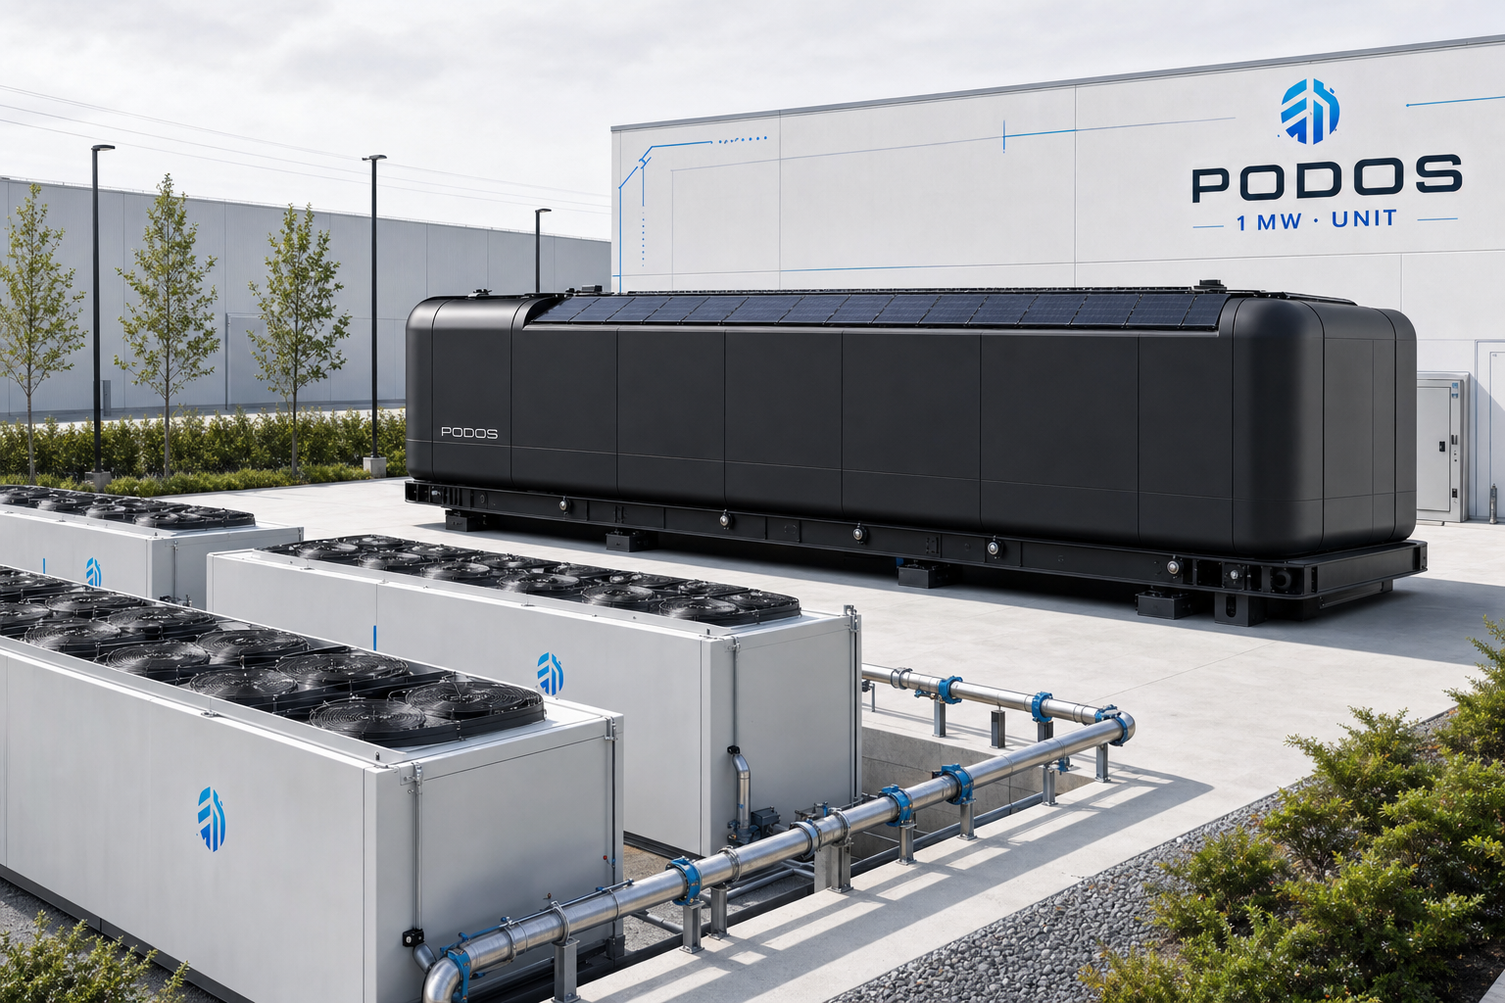
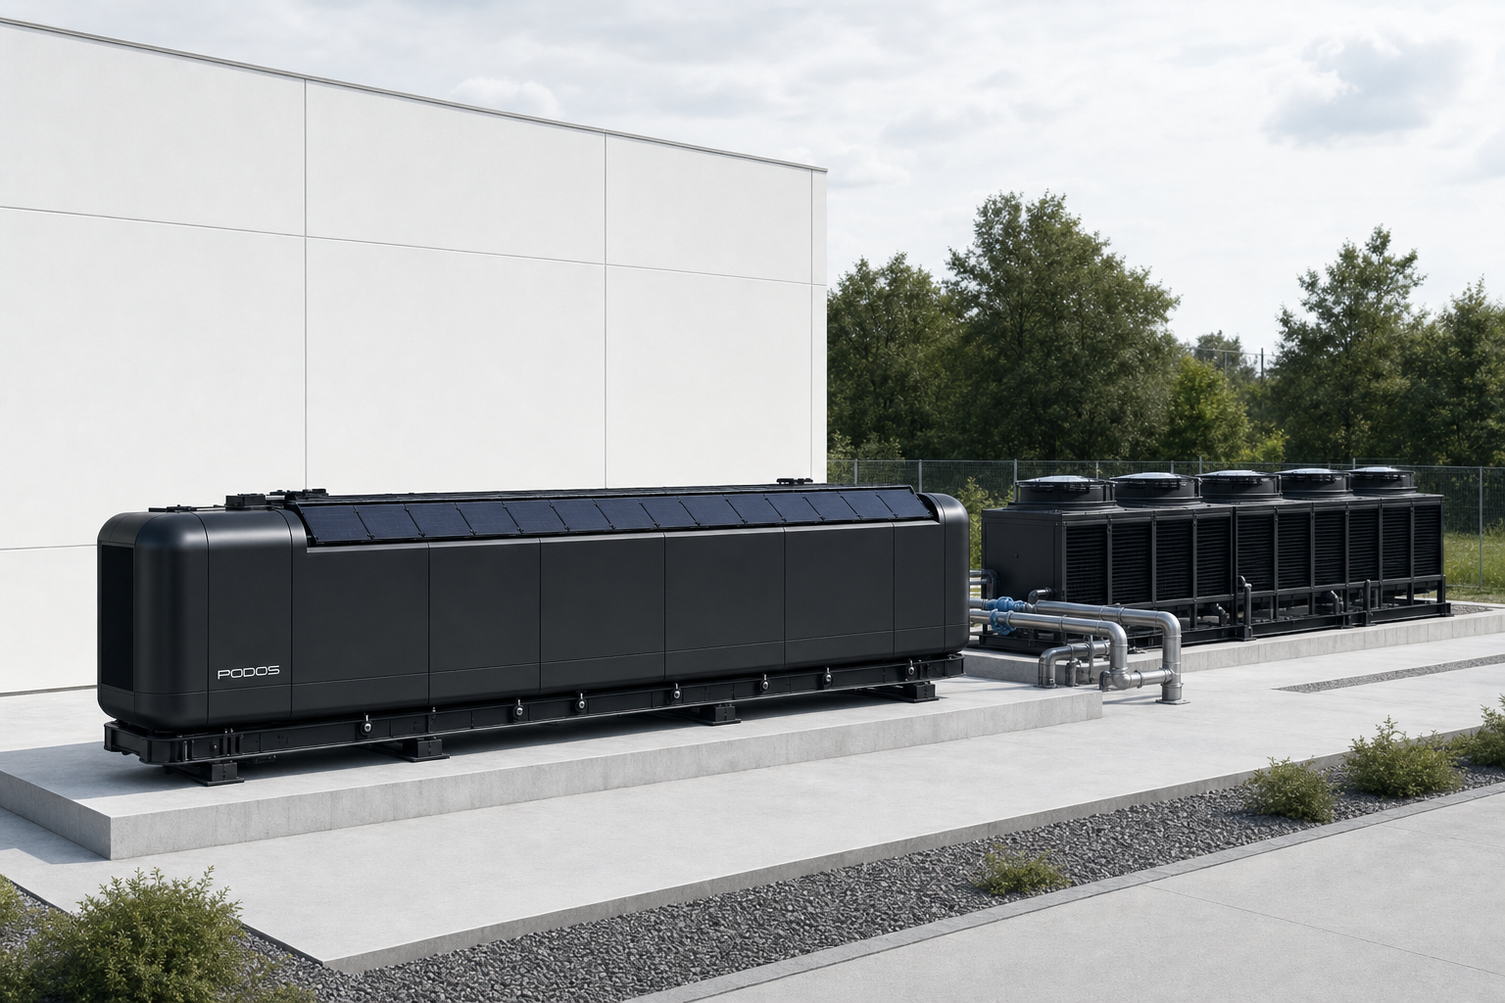
Fix baked-in claims across generated SEO images
Visual QA of all 25 images found several renders had baked company
claims into pixels ("720 sq ft", "1 MW · UNIT", "128 GPUs", "DATA KEPT
ON PREMISES", floor slogans) — which defeats claims gating, since a
number painted into a PNG cannot be qualified or retracted.

Root cause: pod.png is a full spec CARD (title, stat panel, dimension
callouts), so image-to-image editing echoed that text furniture into
scenes. Fix at the source: added public/products/pod-clean.png (product
only, no text) as the SEO reference, and hardened all 25 prompts with an
explicit NO_TEXT negative (no signage, spec panels, callouts, decals,
placards, numbers, pseudo-lettering).

Regenerated the 10 offending images against the clean reference —
verified text-free with correct pod fidelity. Fixed 2 more without
regeneration: pod-hero-studio (cropped the spec panel off the right
edge, then delogo'd a fake angular logo off the wall) and
pod-panel-detail (cropped a stray watermark strip); registry dimensions
updated to match the new crops.

diff --git a/src/data/seo-page-images.ts b/src/data/seo-page-images.ts
@@ -12,7 +12,11 @@
  */
 
 export const SEO_STYLE_DNA =
-  "Bright clean technical environment: white and cool light-gray architectural surfaces, subtle blueprint-blue and cyan accents (#2563EB to #22D3EE family), soft neutral daylight, precision industrial-catalog photography, premium light modern infrastructure-brand aesthetic. No dark voids, no cyberpunk, no neon, no warm gold or ivory tones, no fake text or logos.";
+  "Bright clean technical environment: white and cool light-gray architectural surfaces, subtle blueprint-blue and cyan accents (#2563EB to #22D3EE family), soft neutral daylight, precision industrial-catalog photography, premium light modern infrastructure-brand aesthetic. No dark voids, no cyberpunk, no neon, no warm gold or ivory tones.";
+
+/** Hard negative — company claims must live in gated HTML, never in pixels. */
+export const NO_TEXT =
+  "ABSOLUTELY NO TEXT ANYWHERE IN THE IMAGE: no signage, no wall lockups, no spec panels, no stat boards, no dimension callouts, no floor decals, no placards, no banners, no monument signs, no nameplates, no watermarks, no numbers, no units, no measurements, no slogans, no blueprint labels, no garbled pseudo-lettering. Surfaces stay clean and blank. The only permitted marking is the small PODOS wordmark already present on the unit's flank in the reference image.";
 
 export const POD_DNA =
   "The PODOS Pod: a physically believable modular AI compute unit — long horizontal industrial enclosure, premium matte-black and graphite exterior, rounded end sections, clean modular panel seams, low heavy-duty structural base, integrated solar-panel roof surface, restrained PODOS wordmark, realistic service points, serious engineered proportions, faithful to the reference image. No redesign.";
@@ -37,14 +41,14 @@ export const SEO_IMAGES: SeoImage[] = [
   {
     id: "platform-overview",
     page: "/platform",
-    prompt: `Editorial wide shot of the PODOS Pod on a clean white studio pad with a large bright architectural wall behind it, a thin luminous blue data line rising from the pod and resolving into an elegant abstract layer of translucent blue planes above (hardware-to-software metaphor). ${POD_DNA} ${SEO_STYLE_DNA}`,
+    prompt: `Editorial wide shot of the PODOS Pod on a clean white studio pad with a large bright architectural wall behind it, a thin luminous blue data line rising from the pod and resolving into an elegant abstract layer of translucent blue planes above (hardware-to-software metaphor). ${POD_DNA} ${SEO_STYLE_DNA} ${NO_TEXT}`,
     alt: "PODOS Pod beneath an abstract translucent software layer, representing the integrated platform",
     src: "/visuals/seo/platform-overview.png", width: 1536, height: 1024, status: "ready", conceptual: true,
   },
   {
     id: "platform-integration",
     page: "/platform",
-    prompt: `Clean overhead three-quarter view of the PODOS Pod docked to a bright technical site pad with precise blueprint-blue utility markings on light concrete: power feed, fiber route, cooling interface — drawn as thin engineering linework on the ground around the unit. ${POD_DNA} ${SEO_STYLE_DNA}`,
+    prompt: `Clean overhead three-quarter view of the PODOS Pod docked to a bright technical site pad with precise blueprint-blue utility markings on light concrete: power feed, fiber route, cooling interface — drawn as thin engineering linework on the ground around the unit. ${POD_DNA} ${SEO_STYLE_DNA} ${NO_TEXT}`,
     alt: "Overhead view of a PODOS Pod on a marked technical pad showing power, fiber, and cooling interfaces",
     src: "/visuals/seo/platform-integration.png", width: 1536, height: 1024, status: "ready", conceptual: true,
   },
@@ -53,28 +57,28 @@ export const SEO_IMAGES: SeoImage[] = [
   {
     id: "pod-hero-studio",
     page: "/platform/podos-pod",
-    prompt: `Hero product photograph of the PODOS Pod, front three-quarter angle, in an enormous bright white technical studio with a subtle blueprint grid floor, soft daylight, crisp reflections, catalog-cover quality. ${POD_DNA} ${SEO_STYLE_DNA}`,
+    prompt: `Hero product photograph of the PODOS Pod, front three-quarter angle, in an enormous bright white technical studio with a subtle blueprint grid floor, soft daylight, crisp reflections, catalog-cover quality. ${POD_DNA} ${SEO_STYLE_DNA} ${NO_TEXT}`,
     alt: "PODOS Pod front three-quarter view in a bright technical studio",
     src: "/visuals/seo/pod-hero-studio.png", width: 1536, height: 1024, status: "ready", conceptual: true,
   },
   {
     id: "pod-scale-humans",
     page: "/platform/podos-pod",
-    prompt: `The PODOS Pod in a bright white exhibition hall with two engineers in light-gray workwear standing beside it for true scale (unit is 40 ft long, 8 ft tall), neutral daylight, honest proportions, documentary-clean composition. ${POD_DNA} ${SEO_STYLE_DNA}`,
+    prompt: `The PODOS Pod in a bright white exhibition hall with two engineers in light-gray workwear standing beside it for true scale (unit is 40 ft long, 8 ft tall), neutral daylight, honest proportions, documentary-clean composition. ${POD_DNA} ${SEO_STYLE_DNA} ${NO_TEXT}`,
     alt: "Engineers standing beside a PODOS Pod showing its 40-foot scale",
     src: "/visuals/seo/pod-scale-humans.png", width: 1536, height: 1024, status: "ready", conceptual: true,
   },
   {
     id: "pod-panel-detail",
     page: "/platform/podos-pod",
-    prompt: `Tight macro detail of the PODOS Pod's matte-black modular panel seams, service latch, and the edge of the solar roof line, shallow depth of field, bright neutral light, material-quality product photography. ${POD_DNA} ${SEO_STYLE_DNA}`,
+    prompt: `Tight macro detail of the PODOS Pod's matte-black modular panel seams, service latch, and the edge of the solar roof line, shallow depth of field, bright neutral light, material-quality product photography. ${POD_DNA} ${SEO_STYLE_DNA} ${NO_TEXT}`,
     alt: "Macro detail of PODOS Pod panel seams and service latch",
     src: "/visuals/seo/pod-panel-detail.png", width: 1536, height: 1024, status: "ready", conceptual: true,
   },
   {
     id: "pod-siting-pad",
     page: "/platform/podos-pod",
-    prompt: `The PODOS Pod installed on a fresh light-concrete pad at a tidy industrial site under a bright overcast sky, low fence line and small switchgear cabinet nearby, realistic siting context, clean editorial framing. ${POD_DNA} ${SEO_STYLE_DNA}`,
+    prompt: `The PODOS Pod installed on a fresh light-concrete pad at a tidy industrial site under a bright overcast sky, low fence line and small switchgear cabinet nearby, realistic siting context, clean editorial framing. ${POD_DNA} ${SEO_STYLE_DNA} ${NO_TEXT}`,
     alt: "PODOS Pod installed on a concrete pad at a clean industrial site",
     src: "/visuals/seo/pod-siting-pad.png", width: 1536, height: 1024, status: "ready", conceptual: true,
   },
@@ -83,14 +87,14 @@ export const SEO_IMAGES: SeoImage[] = [
   {
     id: "syntropic-memory-abstract",
     page: "/platform/syntropic",
-    prompt: `Abstract technical visualization of GPU memory pressure: dense translucent blue cubes compressing into a sparser, ordered lattice, rendered as precise glass geometry on a bright white field with fine blueprint gridlines, elegant scientific-figure aesthetic. No hardware, no people. ${SEO_STYLE_DNA}`,
+    prompt: `Abstract technical visualization of GPU memory pressure: dense translucent blue cubes compressing into a sparser, ordered lattice, rendered as precise glass geometry on a bright white field with fine blueprint gridlines, elegant scientific-figure aesthetic. No hardware, no people. ${SEO_STYLE_DNA} ${NO_TEXT}`,
     alt: "Abstract visualization of dense memory blocks compressing into an ordered lattice",
     src: "/visuals/seo/syntropic-memory-abstract.png", width: 1536, height: 1024, status: "ready", conceptual: true,
   },
   {
     id: "syntropic-datapath",
     page: "/platform/syntropic",
-    prompt: `Minimal abstract render of a data path: a wide stream of fine blue light filaments narrowing through a precise crystalline gate and emerging compact and ordered, on a clean white background with subtle cyan accents, premium scientific illustration. No hardware, no text. ${SEO_STYLE_DNA}`,
+    prompt: `Minimal abstract render of a data path: a wide stream of fine blue light filaments narrowing through a precise crystalline gate and emerging compact and ordered, on a clean white background with subtle cyan accents, premium scientific illustration. No hardware, no text. ${SEO_STYLE_DNA} ${NO_TEXT}`,
     alt: "Abstract data stream narrowing through a crystalline gate, representing inference efficiency",
     src: "/visuals/seo/syntropic-datapath.png", width: 1536, height: 1024, status: "ready", conceptual: true,
   },
@@ -99,14 +103,14 @@ export const SEO_IMAGES: SeoImage[] = [
   {
     id: "engineering-hub-cutaway",
     page: "/engineering",
-    prompt: `Technical cutaway of the PODOS Pod from a high three-quarter angle on a pure white background: outer shell lifted to reveal ordered internal zones (power electronics, coolant loops, rack rows, network spine), rendered like a premium engineering-manual plate with blueprint-blue section lines. Leave label areas empty. ${POD_DNA} ${SEO_STYLE_DNA}`,
+    prompt: `Technical cutaway of the PODOS Pod from a high three-quarter angle on a pure white background: outer shell lifted to reveal ordered internal zones (power electronics, coolant loops, rack rows, network spine), rendered like a premium engineering-manual plate with blueprint-blue section lines. Leave label areas empty. ${POD_DNA} ${SEO_STYLE_DNA} ${NO_TEXT}`,
     alt: "Engineering cutaway plate of the PODOS Pod showing internal system zones",
     src: "/visuals/seo/engineering-hub-cutaway.png", width: 1536, height: 1024, status: "ready", conceptual: true,
   },
   {
     id: "engineering-systems-bench",
     page: "/engineering",
-    prompt: `Bright engineering-lab bench scene: precision components laid out in a neat grid on white — a copper cold plate, coolant quick-disconnects, a busbar section, fiber cassette, sensor module — top-down catalog photography with thin blueprint-blue callout ticks. No text. ${SEO_STYLE_DNA}`,
+    prompt: `Bright engineering-lab bench scene: precision components laid out in a neat grid on white — a copper cold plate, coolant quick-disconnects, a busbar section, fiber cassette, sensor module — top-down catalog photography with thin blueprint-blue callout ticks. No text. ${SEO_STYLE_DNA} ${NO_TEXT}`,
     alt: "Engineering components laid out in a grid: cold plate, quick-disconnects, busbar, fiber cassette",
     src: "/visuals/seo/engineering-systems-bench.png", width: 1536, height: 1024, status: "ready", conceptual: true,
   },
@@ -115,21 +119,21 @@ export const SEO_IMAGES: SeoImage[] = [
   {
     id: "cooling-coldplate-macro",
     page: "/engineering/direct-to-chip-liquid-cooling",
-    prompt: `Macro photograph of a direct-to-chip liquid cooling cold plate mounted on a GPU module: machined copper microchannel plate, two coolant fittings with blue anodized collars, clean cabling, bright neutral studio light, extreme technical clarity. No visible brand logos. ${SEO_STYLE_DNA}`,
+    prompt: `Macro photograph of a direct-to-chip liquid cooling cold plate mounted on a GPU module: machined copper microchannel plate, two coolant fittings with blue anodized collars, clean cabling, bright neutral studio light, extreme technical clarity. No visible brand logos. ${SEO_STYLE_DNA} ${NO_TEXT}`,
     alt: "Copper direct-to-chip cold plate with coolant fittings mounted on a GPU module",
     src: "/visuals/seo/cooling-coldplate-macro.png", width: 1536, height: 1024, status: "ready", conceptual: true,
   },
   {
     id: "cooling-cdu-row",
     page: "/engineering/direct-to-chip-liquid-cooling",
-    prompt: `A coolant distribution unit (CDU) cabinet with clear service panels beside a white rack row inside a bright technical corridor of the PODOS Pod interior: manifolds, flow meters, supply/return piping in orderly runs, cool daylight tones. ${POD_DNA} ${SEO_STYLE_DNA}`,
+    prompt: `A coolant distribution unit (CDU) cabinet with clear service panels beside a white rack row inside a bright technical corridor of the PODOS Pod interior: manifolds, flow meters, supply/return piping in orderly runs, cool daylight tones. ${POD_DNA} ${SEO_STYLE_DNA} ${NO_TEXT}`,
     alt: "Coolant distribution unit and manifold piping inside a bright PODOS Pod corridor",
     src: "/visuals/seo/cooling-cdu-row.png", width: 1536, height: 1024, status: "ready", conceptual: true,
   },
   {
     id: "cooling-heat-rejection",
     page: "/engineering/direct-to-chip-liquid-cooling",
-    prompt: `Exterior view of dry coolers / heat-rejection units on a light concrete pad beside the PODOS Pod, fan arrays visible, warm-water pipe run connecting them, bright overcast daylight, tidy industrial landscaping, editorial infrastructure photography. ${POD_DNA} ${SEO_STYLE_DNA}`,
+    prompt: `Exterior view of dry coolers / heat-rejection units on a light concrete pad beside the PODOS Pod, fan arrays visible, warm-water pipe run connecting them, bright overcast daylight, tidy industrial landscaping, editorial infrastructure photography. ${POD_DNA} ${SEO_STYLE_DNA} ${NO_TEXT}`,
     alt: "Dry cooler heat-rejection units connected to a PODOS Pod on a concrete pad",
     src: "/visuals/seo/cooling-heat-rejection.png", width: 1536, height: 1024, status: "ready", conceptual: true,
   },
@@ -138,21 +142,21 @@ export const SEO_IMAGES: SeoImage[] = [
   {
     id: "power-switchgear-bay",
     page: "/engineering/data-center-power-architecture",
-    prompt: `Interior of a bright electrical room: medium-voltage switchgear lineup in light-gray cabinets with closed panels, orderly cable trays overhead, polished concrete floor, cool white lighting with subtle blue indicator accents, utility-grade craftsmanship. No readable labels. ${SEO_STYLE_DNA}`,
+    prompt: `Interior of a bright electrical room: medium-voltage switchgear lineup in light-gray cabinets with closed panels, orderly cable trays overhead, polished concrete floor, cool white lighting with subtle blue indicator accents, utility-grade craftsmanship. No readable labels. ${SEO_STYLE_DNA} ${NO_TEXT}`,
     alt: "Medium-voltage switchgear lineup in a bright electrical room",
     src: "/visuals/seo/power-switchgear-bay.png", width: 1536, height: 1024, status: "ready", conceptual: true,
   },
   {
     id: "power-transformer-yard",
     page: "/engineering/data-center-power-architecture",
-    prompt: `A compact pad-mounted transformer and utility interconnection cabinet on light gravel beside the PODOS Pod, cable trench with covers running between them, bright daylight, chain-link perimeter softly out of focus, believable utility engineering. ${POD_DNA} ${SEO_STYLE_DNA}`,
+    prompt: `A compact pad-mounted transformer and utility interconnection cabinet on light gravel beside the PODOS Pod, cable trench with covers running between them, bright daylight, chain-link perimeter softly out of focus, believable utility engineering. ${POD_DNA} ${SEO_STYLE_DNA} ${NO_TEXT}`,
     alt: "Pad-mounted transformer and interconnection cabinet feeding a PODOS Pod",
     src: "/visuals/seo/power-transformer-yard.png", width: 1536, height: 1024, status: "ready", conceptual: true,
   },
   {
     id: "power-busway-run",
     page: "/engineering/data-center-power-architecture",
-    prompt: `Interior technical view along a white equipment corridor: overhead busway duct with tap-off boxes feeding rack positions, tidy conduit and cable-tray runs, bright even lighting, precision electrical installation photography. No readable labels. ${SEO_STYLE_DNA}`,
+    prompt: `Interior technical view along a white equipment corridor: overhead busway duct with tap-off boxes feeding rack positions, tidy conduit and cable-tray runs, bright even lighting, precision electrical installation photography. No readable labels. ${SEO_STYLE_DNA} ${NO_TEXT}`,
     alt: "Overhead busway with tap-off boxes feeding rack positions in a bright corridor",
     src: "/visuals/seo/power-busway-run.png", width: 1536, height: 1024, status: "ready", conceptual: true,
   },
@@ -161,21 +165,21 @@ export const SEO_IMAGES: SeoImage[] = [
   {
     id: "deploy-crane-lift",
     page: "/deploy",
-    prompt: `A mobile crane lowering the PODOS Pod onto a prepared light-concrete pad, rigging taut, two spotters in light-gray safety gear guiding placement, bright morning daylight, clean staging area, professional heavy-lift photography. ${POD_DNA} ${SEO_STYLE_DNA}`,
+    prompt: `A mobile crane lowering the PODOS Pod onto a prepared light-concrete pad, rigging taut, two spotters in light-gray safety gear guiding placement, bright morning daylight, clean staging area, professional heavy-lift photography. ${POD_DNA} ${SEO_STYLE_DNA} ${NO_TEXT}`,
     alt: "Crane lowering a PODOS Pod onto its prepared concrete pad",
     src: "/visuals/seo/deploy-crane-lift.png", width: 1536, height: 1024, status: "ready", conceptual: true,
   },
   {
     id: "deploy-pad-prep",
     page: "/deploy",
-    prompt: `Site-readiness scene before delivery: a freshly cured concrete pad with embedded anchor points and stub-up conduits, surveyor tripod, marked utility trench, bright neutral daylight — an empty stage awaiting the unit. No pod in frame. ${SEO_STYLE_DNA}`,
+    prompt: `Site-readiness scene before delivery: a freshly cured concrete pad with embedded anchor points and stub-up conduits, surveyor tripod, marked utility trench, bright neutral daylight — an empty stage awaiting the unit. No pod in frame. ${SEO_STYLE_DNA} ${NO_TEXT}`,
     alt: "Prepared concrete pad with anchor points and conduit stub-ups awaiting a PODOS Pod",
     src: "/visuals/seo/deploy-pad-prep.png", width: 1536, height: 1024, status: "ready", conceptual: true,
   },
   {
     id: "deploy-commission-check",
     page: "/deploy",
-    prompt: `Commissioning scene at the PODOS Pod's open service bay: an engineer with a rugged tablet checking systems, interior rack glow spilling soft white light, service cover opened on gas struts, bright exterior daylight, believable acceptance-testing moment. ${POD_DNA} ${SEO_STYLE_DNA}`,
+    prompt: `Commissioning scene at the PODOS Pod's open service bay: an engineer with a rugged tablet checking systems, interior rack glow spilling soft white light, service cover opened on gas struts, bright exterior daylight, believable acceptance-testing moment. ${POD_DNA} ${SEO_STYLE_DNA} ${NO_TEXT}`,
     alt: "Engineer commissioning a PODOS Pod at its open service bay",
     src: "/visuals/seo/deploy-commission-check.png", width: 1536, height: 1024, status: "ready", conceptual: true,
   },
@@ -184,28 +188,28 @@ export const SEO_IMAGES: SeoImage[] = [
   {
     id: "usecase-campus",
     page: "/use-cases",
-    prompt: `The PODOS Pod placed discreetly behind a modern university research building with light brick and glass architecture, neat landscaping, students far in the background, bright afternoon light — on-campus AI capacity without a datacenter build. ${POD_DNA} ${SEO_STYLE_DNA}`,
+    prompt: `The PODOS Pod placed discreetly behind a modern university research building with light brick and glass architecture, neat landscaping, students far in the background, bright afternoon light — on-campus AI capacity without a datacenter build. ${POD_DNA} ${SEO_STYLE_DNA} ${NO_TEXT}`,
     alt: "PODOS Pod sited behind a university research building",
     src: "/visuals/seo/usecase-campus.png", width: 1536, height: 1024, status: "ready", conceptual: true,
   },
   {
     id: "usecase-factory",
     page: "/use-cases",
-    prompt: `The PODOS Pod beside a bright modern manufacturing plant with white cladding, loading docks in the distance, forklift passing, clean industrial yard, overcast-bright light — compute at the point of production. ${POD_DNA} ${SEO_STYLE_DNA}`,
+    prompt: `The PODOS Pod beside a bright modern manufacturing plant with white cladding, loading docks in the distance, forklift passing, clean industrial yard, overcast-bright light — compute at the point of production. ${POD_DNA} ${SEO_STYLE_DNA} ${NO_TEXT}`,
     alt: "PODOS Pod in the yard of a modern manufacturing plant",
     src: "/visuals/seo/usecase-factory.png", width: 1536, height: 1024, status: "ready", conceptual: true,
   },
   {
     id: "usecase-hospital",
     page: "/use-cases",
-    prompt: `The PODOS Pod on a screened utility pad beside a contemporary hospital wing (white facade, glass), discreet placement near existing mechanical equipment, bright clean daylight — data kept on premises. ${POD_DNA} ${SEO_STYLE_DNA}`,
+    prompt: `The PODOS Pod on a screened utility pad beside a contemporary hospital wing (white facade, glass), discreet placement near existing mechanical equipment, bright clean daylight — data kept on premises. ${POD_DNA} ${SEO_STYLE_DNA} ${NO_TEXT}`,
     alt: "PODOS Pod on a utility pad beside a modern hospital building",
     src: "/visuals/seo/usecase-hospital.png", width: 1536, height: 1024, status: "ready", conceptual: true,
   },
   {
     id: "usecase-edge-site",
     page: "/use-cases",
-    prompt: `The PODOS Pod at a remote edge site: high-plains landscape with a small solar array and a telecom mast nearby, crisp morning light, vast sky, the unit self-contained on its pad — believable off-grid-capable siting. ${POD_DNA} ${SEO_STYLE_DNA}`,
+    prompt: `The PODOS Pod at a remote edge site: high-plains landscape with a small solar array and a telecom mast nearby, crisp morning light, vast sky, the unit self-contained on its pad — believable off-grid-capable siting. ${POD_DNA} ${SEO_STYLE_DNA} ${NO_TEXT}`,
     alt: "PODOS Pod at a remote edge site with solar array and telecom mast",
     src: "/visuals/seo/usecase-edge-site.png", width: 1536, height: 1024, status: "ready", conceptual: true,
   },
@@ -214,7 +218,7 @@ export const SEO_IMAGES: SeoImage[] = [
   {
     id: "compare-split-frame",
     page: "/compare/modular-ai-data-center-vs-traditional-data-center",
-    prompt: `Single bright editorial frame split by a thin vertical blueprint-blue line: LEFT — a large traditional data-center construction site (cranes, concrete shell, daylight); RIGHT — the finished PODOS Pod operating on its small pad. Same light grading both sides, neutral and honest, no winner styling. ${POD_DNA} ${SEO_STYLE_DNA}`,
+    prompt: `Single bright editorial frame split by a thin vertical blueprint-blue line: LEFT — a large traditional data-center construction site (cranes, concrete shell, daylight); RIGHT — the finished PODOS Pod operating on its small pad. Same light grading both sides, neutral and honest, no winner styling. ${POD_DNA} ${SEO_STYLE_DNA} ${NO_TEXT}`,
     alt: "Split frame comparing a traditional data center construction site with an installed PODOS Pod",
     src: "/visuals/seo/compare-split-frame.png", width: 1536, height: 1024, status: "ready", conceptual: true,
   },
@@ -223,7 +227,7 @@ export const SEO_IMAGES: SeoImage[] = [
   {
     id: "glossary-abstract",
     page: "/resources/ai-infrastructure-glossary",
-    prompt: `Quiet abstract header image: fine blueprint-blue engineering linework — pipe runs, one-line electrical symbols, rack outlines — etched sparsely across a bright white field with one small cyan accent node, minimal and encyclopedic. No text, no readable symbols. ${SEO_STYLE_DNA}`,
+    prompt: `Quiet abstract header image: fine blueprint-blue engineering linework — pipe runs, one-line electrical symbols, rack outlines — etched sparsely across a bright white field with one small cyan accent node, minimal and encyclopedic. No text, no readable symbols. ${SEO_STYLE_DNA} ${NO_TEXT}`,
     alt: "",
     src: "/visuals/seo/glossary-abstract.png", width: 1536, height: 1024, status: "ready", conceptual: false,
   },
